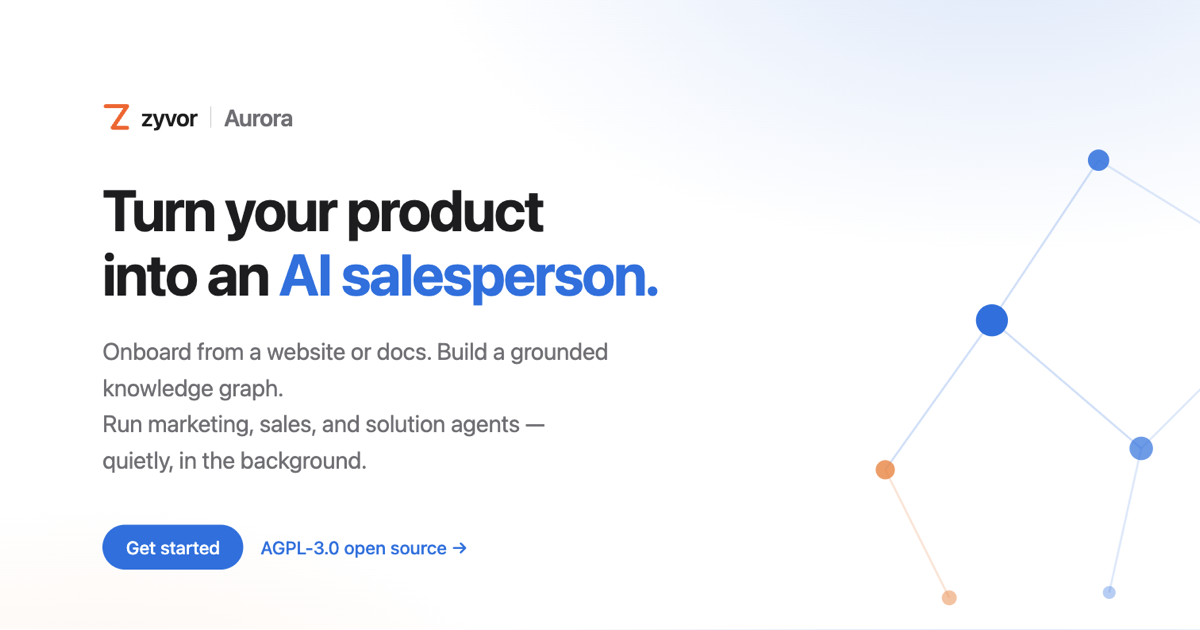
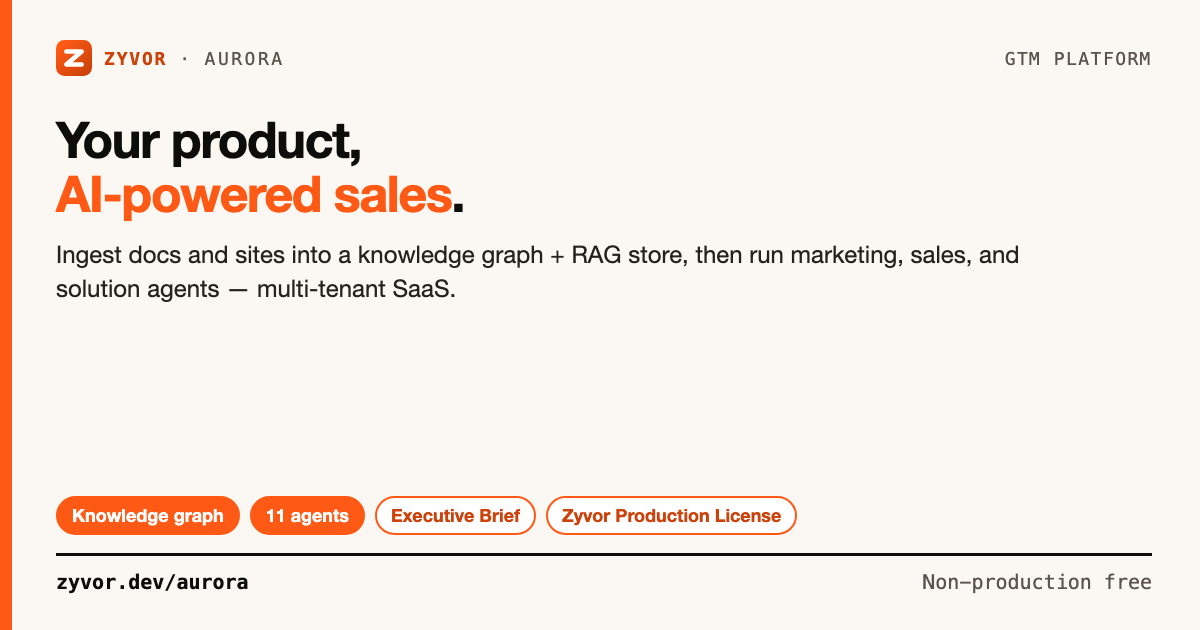
Add social share card and rewrite README for GitHub.

diff --git a/docs/social/aurora-social-card.html b/docs/social/aurora-social-card.html
@@ -1,0 +1,84 @@
+<!doctype html>
+<html lang="en">
+<head>
+<meta charset="utf-8">
+<title>Aurora social card</title>
+<!--
+  1600x900 (16:9) card for LinkedIn and X, in the Zyvor brochure look.
+  Build:  ./docs/social/build-social-card.sh   ->  aurora-social-card.jpg
+-->
+<style>
+  :root { --ink:#0d0d0c; --soft:#5a544c; --signal:#ff5a15; --deep:#cc420a; --warm:#fbf7f2;
+    --blue:#2b5fd9; --green:#1f7a4d;
+    --sans:'Helvetica Neue',Helvetica,Arial,sans-serif; --mono:'SF Mono',Menlo,Consolas,monospace; }
+  * { box-sizing:border-box; }
+  html,body { margin:0; padding:0; }
+  body { width:1600px; height:900px; overflow:hidden; background:var(--warm); color:var(--ink); font-family:var(--sans); position:relative; }
+  .bar { position:absolute; left:0; top:0; bottom:0; width:14px; background:var(--signal); }
+  .wrap { position:absolute; left:72px; right:64px; top:48px; bottom:40px; display:flex; flex-direction:column; }
+
+  .top { display:flex; align-items:center; gap:14px; font-family:var(--mono); font-size:20px; letter-spacing:.14em; text-transform:uppercase; color:var(--soft); }
+  .top img { height:40px; }
+  .top b { color:var(--deep); letter-spacing:.1em; }
+  .top .r { margin-left:auto; letter-spacing:.08em; }
+
+  h1 { margin:26px 0 0; font-size:64px; line-height:1.06; letter-spacing:-.025em; font-weight:700; max-width:1440px; }
+  h1 em { font-style:normal; color:var(--signal); }
+  .sub { margin:16px 0 0; font-size:27px; line-height:1.36; color:#26231f; max-width:1320px; }
+
+  .flow { margin-top:34px; display:grid; grid-template-columns:repeat(5,1fr); gap:34px; }
+  .step { position:relative; background:#fff; border:2.5px solid var(--c); border-radius:16px; padding:18px 20px 18px 24px; min-height:222px; }
+  .step::before { content:""; position:absolute; left:0; top:0; bottom:0; width:9px; background:var(--c); border-radius:13px 0 0 13px; }
+  .step:not(:last-child)::after { content:""; position:absolute; right:-31px; top:50%; width:0; height:0; margin-top:-11px;
+    border-left:16px solid var(--soft); border-top:11px solid transparent; border-bottom:11px solid transparent; }
+  .lane { display:inline-block; font-family:var(--mono); font-size:15px; font-weight:700; letter-spacing:.12em; color:#fff; background:var(--c); padding:3px 10px; border-radius:11px; }
+  .n { float:right; width:34px; height:34px; border-radius:50%; background:var(--c); color:#fff; font-weight:700; font-size:19px; line-height:34px; text-align:center; }
+  .step h3 { margin:14px 0 8px; font-size:27px; line-height:1.14; letter-spacing:-.01em; }
+  .step p { margin:0; font-size:20.5px; line-height:1.34; color:var(--soft); }
+  .k { --c:var(--signal); } .a { --c:var(--ink); } .c { --c:var(--blue); } .o { --c:var(--green); } .o2 { --c:var(--deep); }
+
+  .attr { margin-top:22px; display:flex; align-items:center; gap:16px; background:var(--ink); color:#f3ede4; border-radius:12px; padding:13px 22px; font-family:var(--mono); font-size:22px; white-space:nowrap; }
+  .attr .tag { color:var(--signal); font-weight:700; letter-spacing:.1em; font-size:16px; }
+  .attr .why { margin-left:auto; color:#a39a8d; font-size:15px; letter-spacing:.06em; text-transform:uppercase; }
+
+  .chips { margin-top:auto; padding-top:22px; display:flex; flex-wrap:wrap; gap:10px; }
+  .chip { font-size:20px; font-weight:700; padding:5px 14px; border-radius:20px; background:var(--signal); color:#fff; border:2px solid var(--signal); }
+  .chip.g { background:#fff; color:var(--deep); border:2px solid var(--signal); }
+
+  .foot { margin-top:18px; padding-top:14px; border-top:3px solid var(--ink); display:flex; align-items:center; font-family:var(--mono); font-size:22px; color:var(--soft); }
+  .foot b { color:var(--ink); }
+  .foot .r { margin-left:auto; }
+</style>
+</head>
+<body>
+<div class="bar"></div>
+<div class="wrap">
+  <div class="top"><img src="zyvor-mark.svg" alt=""><b>Zyvor</b><span>&middot;</span><span>Aurora</span><span class="r">Multi-tenant GTM</span></div>
+
+  <h1>From docs to <em>pipeline</em>.</h1>
+  <p class="sub">Software companies onboard with a site or documentation; Aurora discovers the product, builds Neo4j + Qdrant stores, and runs grounded marketing and sales agents.</p>
+
+  <div class="flow">
+    <div class="step k"><span class="lane">SOURCES</span><span class="n">1</span>
+      <h3>Ingest product truth</h3><p>Website, docs, CSV, YouTube, GitHub, or OpenAPI — tenant-scoped source management.</p></div>
+    <div class="step a"><span class="lane">GRAPH</span><span class="n">2</span>
+      <h3>Knowledge + RAG</h3><p>Automatic graph and vector store for grounded Q&amp;A and agent context.</p></div>
+    <div class="step c"><span class="lane">FORGE</span><span class="n">3</span>
+      <h3>9-stage pipeline</h3><p>Sources through ingest, strategy, content, and publish — with a run log dock.</p></div>
+    <div class="step o"><span class="lane">SELL</span><span class="n">4</span>
+      <h3>Sales &amp; outreach</h3><p>Discover, qualify, and outreach tabs — suppression-aware publishing across channels.</p></div>
+    <div class="step o2"><span class="lane">BRIEF</span><span class="n">5</span>
+      <h3>Exec readiness</h3><p><code>gtm_readiness</code> from nine signals — computed without an LLM on load.</p></div>
+  </div>
+
+  <div class="attr"><span class="tag">AGENTS</span><span>11 specialized agents &nbsp;·&nbsp; supervisor &nbsp;·&nbsp; Ollama or OpenAI-compatible</span><span class="why">Architecture</span></div>
+
+  <div class="chips">
+    <span class="chip">Neo4j + Qdrant</span><span class="chip">Persona landing</span>
+    <span class="chip g">Portal accounts</span><span class="chip g">Channel adapters</span><span class="chip g">Zyvor Production License</span>
+  </div>
+
+  <div class="foot"><span><b>github.com/zyvorai/aurora</b></span><span class="r">Non-production free &middot; Production via zyvor.dev</span></div>
+</div>
+</body>
+</html>

diff --git a/docs/social/aurora-share-card.html b/docs/social/aurora-share-card.html
@@ -1,0 +1,55 @@
+<!doctype html>
+<html lang="en">
+<head>
+<meta charset="utf-8">
+<title>Aurora share card</title>
+<!--
+  1200x630 Open Graph / README hero card.
+  Build:  ./docs/social/build-social-card.sh
+-->
+<style>
+  :root { --ink:#0d0d0c; --soft:#5a544c; --signal:#ff5a15; --deep:#cc420a; --warm:#fbf7f2;
+    --sans:'Helvetica Neue',Helvetica,Arial,sans-serif; --mono:'SF Mono',Menlo,Consolas,monospace; }
+  * { box-sizing:border-box; }
+  html,body { margin:0; padding:0; }
+  body { width:1200px; height:630px; overflow:hidden; background:var(--warm); color:var(--ink); font-family:var(--sans); position:relative; }
+  .bar { position:absolute; left:0; top:0; bottom:0; width:12px; background:var(--signal); }
+  .wrap { position:absolute; left:56px; right:48px; top:40px; bottom:36px; display:flex; flex-direction:column; }
+
+  .top { display:flex; align-items:center; gap:12px; font-family:var(--mono); font-size:18px; letter-spacing:.14em; text-transform:uppercase; color:var(--soft); }
+  .top img { height:36px; }
+  .top b { color:var(--deep); letter-spacing:.1em; }
+  .top .r { margin-left:auto; letter-spacing:.08em; }
+
+  h1 { margin:36px 0 0; font-size:50px; line-height:1.08; letter-spacing:-.025em; font-weight:700; max-width:1080px; }
+  h1 em { font-style:normal; color:var(--signal); }
+  .sub { margin:18px 0 0; font-size:24px; line-height:1.4; color:#26231f; max-width:980px; }
+
+  .chips { margin-top:auto; display:flex; flex-wrap:wrap; gap:10px; padding-bottom:18px; }
+  .chip { font-size:18px; font-weight:700; padding:6px 14px; border-radius:20px; background:var(--signal); color:#fff; border:2px solid var(--signal); }
+  .chip.g { background:#fff; color:var(--deep); border:2px solid var(--signal); }
+
+  .foot { padding-top:14px; border-top:3px solid var(--ink); display:flex; align-items:center; font-family:var(--mono); font-size:20px; color:var(--soft); }
+  .foot b { color:var(--ink); }
+  .foot .r { margin-left:auto; }
+</style>
+</head>
+<body>
+<div class="bar"></div>
+<div class="wrap">
+  <div class="top"><img src="zyvor-mark.svg" alt=""><b>Zyvor</b><span>&middot;</span><span>Aurora</span><span class="r">GTM platform</span></div>
+
+  <h1>Your product,<br><em>AI-powered sales</em>.</h1>
+  <p class="sub">Ingest docs and sites into a knowledge graph + RAG store, then run marketing, sales, and solution agents — multi-tenant SaaS.</p>
+
+  <div class="chips">
+    <span class="chip">Knowledge graph</span>
+    <span class="chip">11 agents</span>
+    <span class="chip g">Executive Brief</span>
+    <span class="chip g">Zyvor Production License</span>
+  </div>
+
+  <div class="foot"><span><b>zyvor.dev/aurora</b></span><span class="r">Non-production free</span></div>
+</div>
+</body>
+</html>

diff --git a/README.md b/README.md
@@ -1,16 +1,16 @@
 # Aurora
 
-[![License: Zyvor Production v1.0](https://img.shields.io/badge/License-Zyvor%20Production%20v1.0-blue.svg)](LICENSE)
 [![CI](https://github.com/zyvorai/aurora/actions/workflows/ci.yml/badge.svg)](https://github.com/zyvorai/aurora/actions/workflows/ci.yml)
+[![License: Zyvor Production v1.0](https://img.shields.io/badge/License-Zyvor%20Production%20v1.0-blue.svg)](LICENSE)
+[![Version](https://img.shields.io/github/v/release/zyvorai/aurora?label=version&color=informational)](CHANGELOG.md)
 
 ![Aurora — turn your technical product into an AI-powered salesperson](docs/social/aurora-share-card.png)
 
 **Turn your technical product into an AI-powered salesperson.**
 
-Multi-tenant SaaS platform where software companies onboard by providing a
-website or documentation. The platform automatically discovers the product,
-builds a searchable knowledge graph + RAG store, then runs AI marketing,
-sales, and solution agents.
+Multi-tenant SaaS platform where software companies onboard by providing a website or documentation. The platform automatically discovers the product, builds a searchable knowledge graph + RAG store, then runs AI marketing, sales, and solution agents.
+
+📖 **[Customer docs](docs/customer/README.md)** · [Dev guide](docs/dev-guide.md) · [Product page](https://zyvor.dev/aurora) · [Changelog](CHANGELOG.md)
 
 ## Which repo am I in?
 
@@ -24,6 +24,7 @@ This repository is licensed under the **Zyvor Production License v1.0**. Non-pro
 
 ## Contents
 
+- [Which repo am I in?](#which-repo-am-i-in)
 - [Dashboard gallery](#dashboard-gallery)
 - [Features](#features)
 - [Architecture](#architecture)

diff --git a/docs/social/README.md b/docs/social/README.md
@@ -1,0 +1,12 @@
+# Social assets
+
+| File | What it is | Rebuild |
+|---|---|---|
+| `aurora-share-card.png` | 1200×630 card: the README hero and Open Graph preview | `./docs/social/build-social-card.sh` |
+| `aurora-social-card.html` / `.jpg` | 1600×900 (16:9) card for LinkedIn and X: the GTM platform story in five steps | same script |
+| `aurora-share-card.html` | Source for the 1200×630 share card | same script |
+
+Needs Google Chrome and macOS `sips` (already on a Mac); nothing is installed.
+
+Every claim on the social card is already sourced in the project README and docs.
+Licence wording follows `LICENSE`: Zyvor Production License v1.0.
